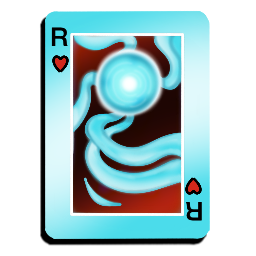
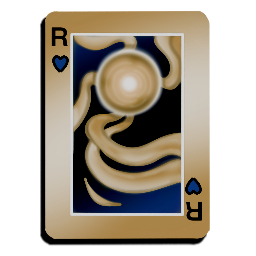
pour mettre en ligne

diff --git a/public/css/profil.css b/public/css/profil.css
@@ -17,7 +17,7 @@
     content: '';
     position: absolute;
     top: 0; left: 0; right: 0; bottom: 0;
-    background: url('../Images/bodyimage.png') center/cover no-repeat;
+    background: url('../images/bodyimage.png') center/cover no-repeat;
     opacity: 0.08;
     z-index: -1;
     animation: float 20s ease-in-out infinite;

diff --git a/public/css/auth.css b/public/css/auth.css
@@ -14,7 +14,7 @@ main {
   justify-content: center;
   align-items: center;
   min-height: 100vh;
-  background: url("../Images/inscription.jpg") no-repeat;
+  background: url("../images/inscription.jpg") no-repeat;
   background-size: cover;
   background-position: center;
 }

diff --git a/public/css/catalogue.css b/public/css/catalogue.css
@@ -45,7 +45,7 @@ main {
   flex-direction: column;
   align-items: center;
   min-height: 100vh;
-  background: url("../Images/inscription.jpg") no-repeat;
+  background: url("../images/inscription.jpg") no-repeat;
   background-size: cover;
   background-position: center;
 }

diff --git a/public/css/styles.css b/public/css/styles.css
@@ -27,7 +27,7 @@ body {
 
   main {
     padding: 80px 50px 50px;
-    background-image: url(../Images/bodyimage.png);
+    background-image: url(../images/bodyimage.png);
     background-repeat: no-repeat;
     background-size: cover;
     flex-grow: 1;

diff --git a/src/Controller/HomeController.php b/src/Controller/HomeController.php
@@ -4,6 +4,8 @@ namespace App\Controller;
 
 use App\Entity\CardAnime;
 use App\Entity\CardFilm;
+use App\Entity\UserCardAnime;
+use App\Entity\UserCardFilm;
 use Doctrine\ORM\EntityManagerInterface;
 use Symfony\Bundle\FrameworkBundle\Controller\AbstractController;
 use Symfony\Component\HttpFoundation\Response;
@@ -42,6 +44,69 @@ final class HomeController extends AbstractController
             'carouselImages' => $carouselImages,
             // Si tu veux un pool JS pour remplacement aléatoire côté client :
             'allCarouselImages' => $allImagePaths,
+            'recentDrops' => $this->getRecentDrops($entityManager),
         ]);
+    }
+
+    /**
+     * @return array<int, array{pseudo: string, nom: string, imagePath: ?string, rarite: string, obtainedAt: \DateTimeImmutable}>
+     */
+    private function getRecentDrops(EntityManagerInterface $entityManager, int $limit = 8): array
+    {
+        $recentAnime = $entityManager->getRepository(UserCardAnime::class)
+            ->createQueryBuilder('uca')
+            ->where('uca.obtainedAt IS NOT NULL')
+            ->orderBy('uca.obtainedAt', 'DESC')
+            ->setMaxResults($limit)
+            ->getQuery()
+            ->getResult();
+
+        $recentFilm = $entityManager->getRepository(UserCardFilm::class)
+            ->createQueryBuilder('ucf')
+            ->where('ucf.obtainedAt IS NOT NULL')
+            ->orderBy('ucf.obtainedAt', 'DESC')
+            ->setMaxResults($limit)
+            ->getQuery()
+            ->getResult();
+
+        $drops = array_merge($recentAnime, $recentFilm);
+
+        usort($drops, fn ($a, $b) => $b->getObtainedAt() <=> $a->getObtainedAt());
+
+        $drops = array_slice($drops, 0, $limit);
+
+        return array_map(function (UserCardAnime|UserCardFilm $userCard) {
+            $card = $userCard instanceof UserCardAnime ? $userCard->getCardAnime() : $userCard->getCardFilm();
+
+            return [
+                'pseudo' => $userCard->getUser()?->getPseudo() ?? '?',
+                'nom' => $card->getNom(),
+                'imagePath' => $card->getImagePath(),
+                'rarite' => $card->getRarity()?->getLibelle() ?? '',
+                'type' => $userCard instanceof UserCardAnime ? 'Anime' : 'Film',
+                'relative' => $this->formatRelativeTime($userCard->getObtainedAt()),
+            ];
+        }, $drops);
+    }
+
+    private function formatRelativeTime(\DateTimeImmutable $date): string
+    {
+        $diff = (new \DateTimeImmutable())->getTimestamp() - $date->getTimestamp();
+
+        if ($diff < 60) {
+            return 'à l\'instant';
+        }
+        if ($diff < 3600) {
+            return 'il y a ' . (int) floor($diff / 60) . ' min';
+        }
+        if ($diff < 86400) {
+            return 'il y a ' . (int) floor($diff / 3600) . 'h';
+        }
+        $days = (int) floor($diff / 86400);
+        if ($days < 7) {
+            return 'il y a ' . $days . 'j';
+        }
+
+        return $date->format('d/m/Y');
     }
 }

diff --git a/migrations/Version20260801171032.php b/migrations/Version20260801171032.php
@@ -1,0 +1,41 @@
+<?php
+
+declare(strict_types=1);
+
+namespace DoctrineMigrations;
+
+use Doctrine\DBAL\Schema\Schema;
+use Doctrine\Migrations\AbstractMigration;
+
+/**
+ * Auto-generated Migration: Please modify to your needs!
+ */
+final class Version20260801171032 extends AbstractMigration
+{
+    public function getDescription(): string
+    {
+        return 'Ajoute la date d\'obtention des cartes (historique des derniers drops)';
+    }
+
+    public function up(Schema $schema): void
+    {
+        $this->addSql('ALTER TABLE user_card_anime ADD obtained_at DATETIME DEFAULT NULL COMMENT \'(DC2Type:datetime_immutable)\'');
+        $this->addSql('ALTER TABLE user_card_film ADD obtained_at DATETIME DEFAULT NULL COMMENT \'(DC2Type:datetime_immutable)\'');
+
+        // Les lignes déjà existantes n'ont pas de vraie date d'obtention connue :
+        // on les backfill à "maintenant" pour ne pas laisser de NULL.
+        // UTC_TIMESTAMP() (et non NOW(), qui est l'heure locale du serveur MySQL) pour
+        // rester cohérent avec \DateTimeImmutable côté PHP (date.timezone = UTC) : sinon
+        // les nouveaux drops, datés en UTC, se retrouvent "dans le passé" par rapport à
+        // ce backfill tant que l'horloge UTC n'a pas rattrapé le décalage local.
+        $this->addSql('UPDATE user_card_anime SET obtained_at = UTC_TIMESTAMP() WHERE obtained_at IS NULL');
+        $this->addSql('UPDATE user_card_film SET obtained_at = UTC_TIMESTAMP() WHERE obtained_at IS NULL');
+    }
+
+    public function down(Schema $schema): void
+    {
+        // this down() migration is auto-generated, please modify it to your needs
+        $this->addSql('ALTER TABLE user_card_film DROP obtained_at');
+        $this->addSql('ALTER TABLE user_card_anime DROP obtained_at');
+    }
+}

diff --git a/src/Controller/CardAssignmentController.php b/src/Controller/CardAssignmentController.php
@@ -118,6 +118,7 @@ use Symfony\Component\Security\Http\Attribute\IsGranted;
                         $userCard->setQuantity($quantity);
                         $entityManager->persist($userCard);
                     }
+                    $userCard->setObtainedAt(new \DateTimeImmutable());
 
                     $entityManager->flush();
                     $badgeService->refreshCollectorBadges($user);
@@ -195,6 +196,7 @@ use Symfony\Component\Security\Http\Attribute\IsGranted;
                         $userCard->setQuantity($quantity);
                         $entityManager->persist($userCard);
                     }
+                    $userCard->setObtainedAt(new \DateTimeImmutable());
 
                     $entityManager->flush();
                     $badgeService->refreshCollectorBadges($user);

diff --git a/src/Entity/UserCardAnime.php b/src/Entity/UserCardAnime.php
@@ -24,6 +24,9 @@ class UserCardAnime
     #[ORM\Column]
     private ?int $quantity = null;
 
+    #[ORM\Column(nullable: true)]
+    private ?\DateTimeImmutable $obtainedAt = null;
+
     public function getId(): ?int
     {
         return $this->id;
@@ -61,6 +64,18 @@ class UserCardAnime
     public function setQuantity(int $quantity): static
     {
         $this->quantity = $quantity;
+
+        return $this;
+    }
+
+    public function getObtainedAt(): ?\DateTimeImmutable
+    {
+        return $this->obtainedAt;
+    }
+
+    public function setObtainedAt(\DateTimeImmutable $obtainedAt): static
+    {
+        $this->obtainedAt = $obtainedAt;
 
         return $this;
     }

diff --git a/src/Entity/UserCardFilm.php b/src/Entity/UserCardFilm.php
@@ -22,6 +22,9 @@ class UserCardFilm
     #[ORM\Column]
     private ?int $quantity = null;
 
+    #[ORM\Column(nullable: true)]
+    private ?\DateTimeImmutable $obtainedAt = null;
+
     public function getId(): ?int
     {
         return $this->id;
@@ -59,6 +62,18 @@ class UserCardFilm
     public function setQuantity(int $quantity): static
     {
         $this->quantity = $quantity;
+
+        return $this;
+    }
+
+    public function getObtainedAt(): ?\DateTimeImmutable
+    {
+        return $this->obtainedAt;
+    }
+
+    public function setObtainedAt(\DateTimeImmutable $obtainedAt): static
+    {
+        $this->obtainedAt = $obtainedAt;
 
         return $this;
     }

diff --git a/src/Controller/MythicController.php b/src/Controller/MythicController.php
@@ -117,6 +117,7 @@ class MythicController extends AbstractController
             $existing->setQuantity(1);
             $entityManager->persist($existing);
         }
+        $existing->setObtainedAt(new \DateTimeImmutable());
 
         $entityManager->flush();
         $badgeService->refreshCollectorBadges($user);
@@ -228,6 +229,7 @@ class MythicController extends AbstractController
             $existing->setQuantity(1);
             $entityManager->persist($existing);
         }
+        $existing->setObtainedAt(new \DateTimeImmutable());
 
         $entityManager->flush();
         $badgeService->refreshCollectorBadges($user);

diff --git a/src/Controller/WheelController.php b/src/Controller/WheelController.php
@@ -190,6 +190,7 @@ class WheelController extends AbstractController
             $userCard->setQuantity(1);
             $entityManager->persist($userCard);
         }
+        $userCard->setObtainedAt(new \DateTimeImmutable());
 
         $entityManager->flush();
         $badgeService->refreshCollectorBadges($user);
@@ -235,6 +236,7 @@ class WheelController extends AbstractController
             $userCard->setQuantity(1);
             $entityManager->persist($userCard);
         }
+        $userCard->setObtainedAt(new \DateTimeImmutable());
 
         $entityManager->flush();
         $badgeService->refreshCollectorBadges($user);

diff --git a/src/Controller/CardController.php b/src/Controller/CardController.php
@@ -57,7 +57,8 @@ class CardController extends AbstractController
             $userCard->setQuantity(1);
             $entityManager->persist($userCard);
         }
-        
+        $userCard->setObtainedAt(new \DateTimeImmutable());
+
         $entityManager->flush();
         $badgeService->refreshCollectorBadges($user);
 
